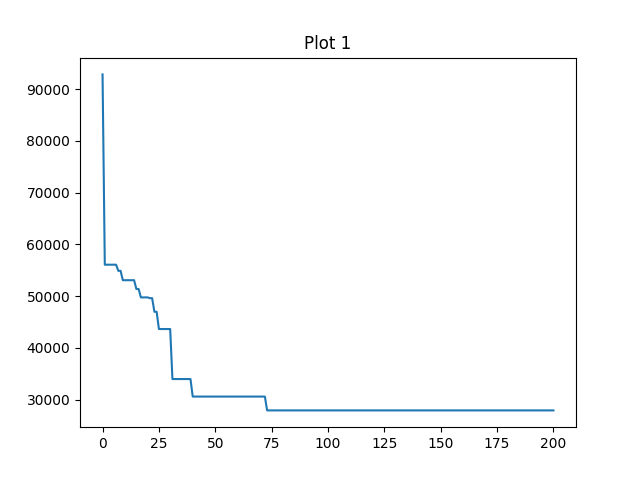
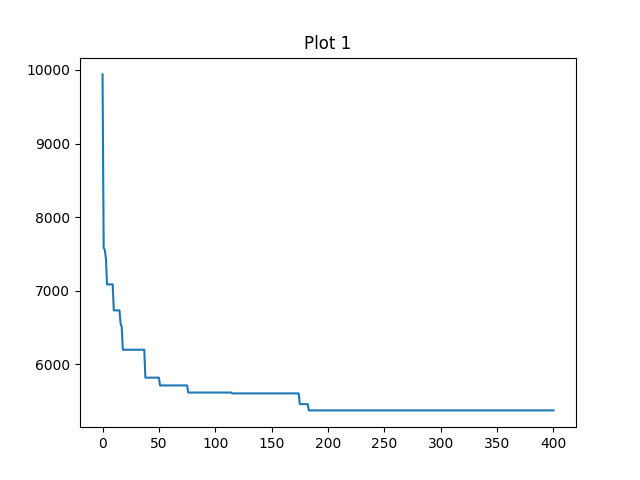
fix: 调整参数

diff --git a/ga.py b/ga.py
@@ -10,15 +10,15 @@ class GA:
         # 最大承重
         self.cap = 100
         # 违反的容量约束的惩罚函数系数
-        self.alpha = 200
+        self.alpha = 10
         # 种群大小
         self.nind = 50
         # 迭代次数
-        self.maxgen = 200
+        self.maxgen = 400
         # 交叉概率
-        self.pc = 0.9
+        self.pc = 0.7
         # 变异概率
-        self.pm = 0.05
+        self.pm = 0.02
         # 代沟(Generation gap)
         self.generation_gap = 0.9
         # 染色体长度=顾客数目+车辆最多使用数目-1

diff --git a/main.py b/main.py
@@ -33,7 +33,7 @@ if __name__ == '__main__':
     """
         ga循环
     """
-    for i in range(0, 200):
+    for i in range(0, ga.maxgen):
         # 计算成本
         cost = ga.get_calObj(chromosome, cvrp.customerLen, ga.cap, cvrp.demands, matrix, ga.alpha)
         # 计算适应度
